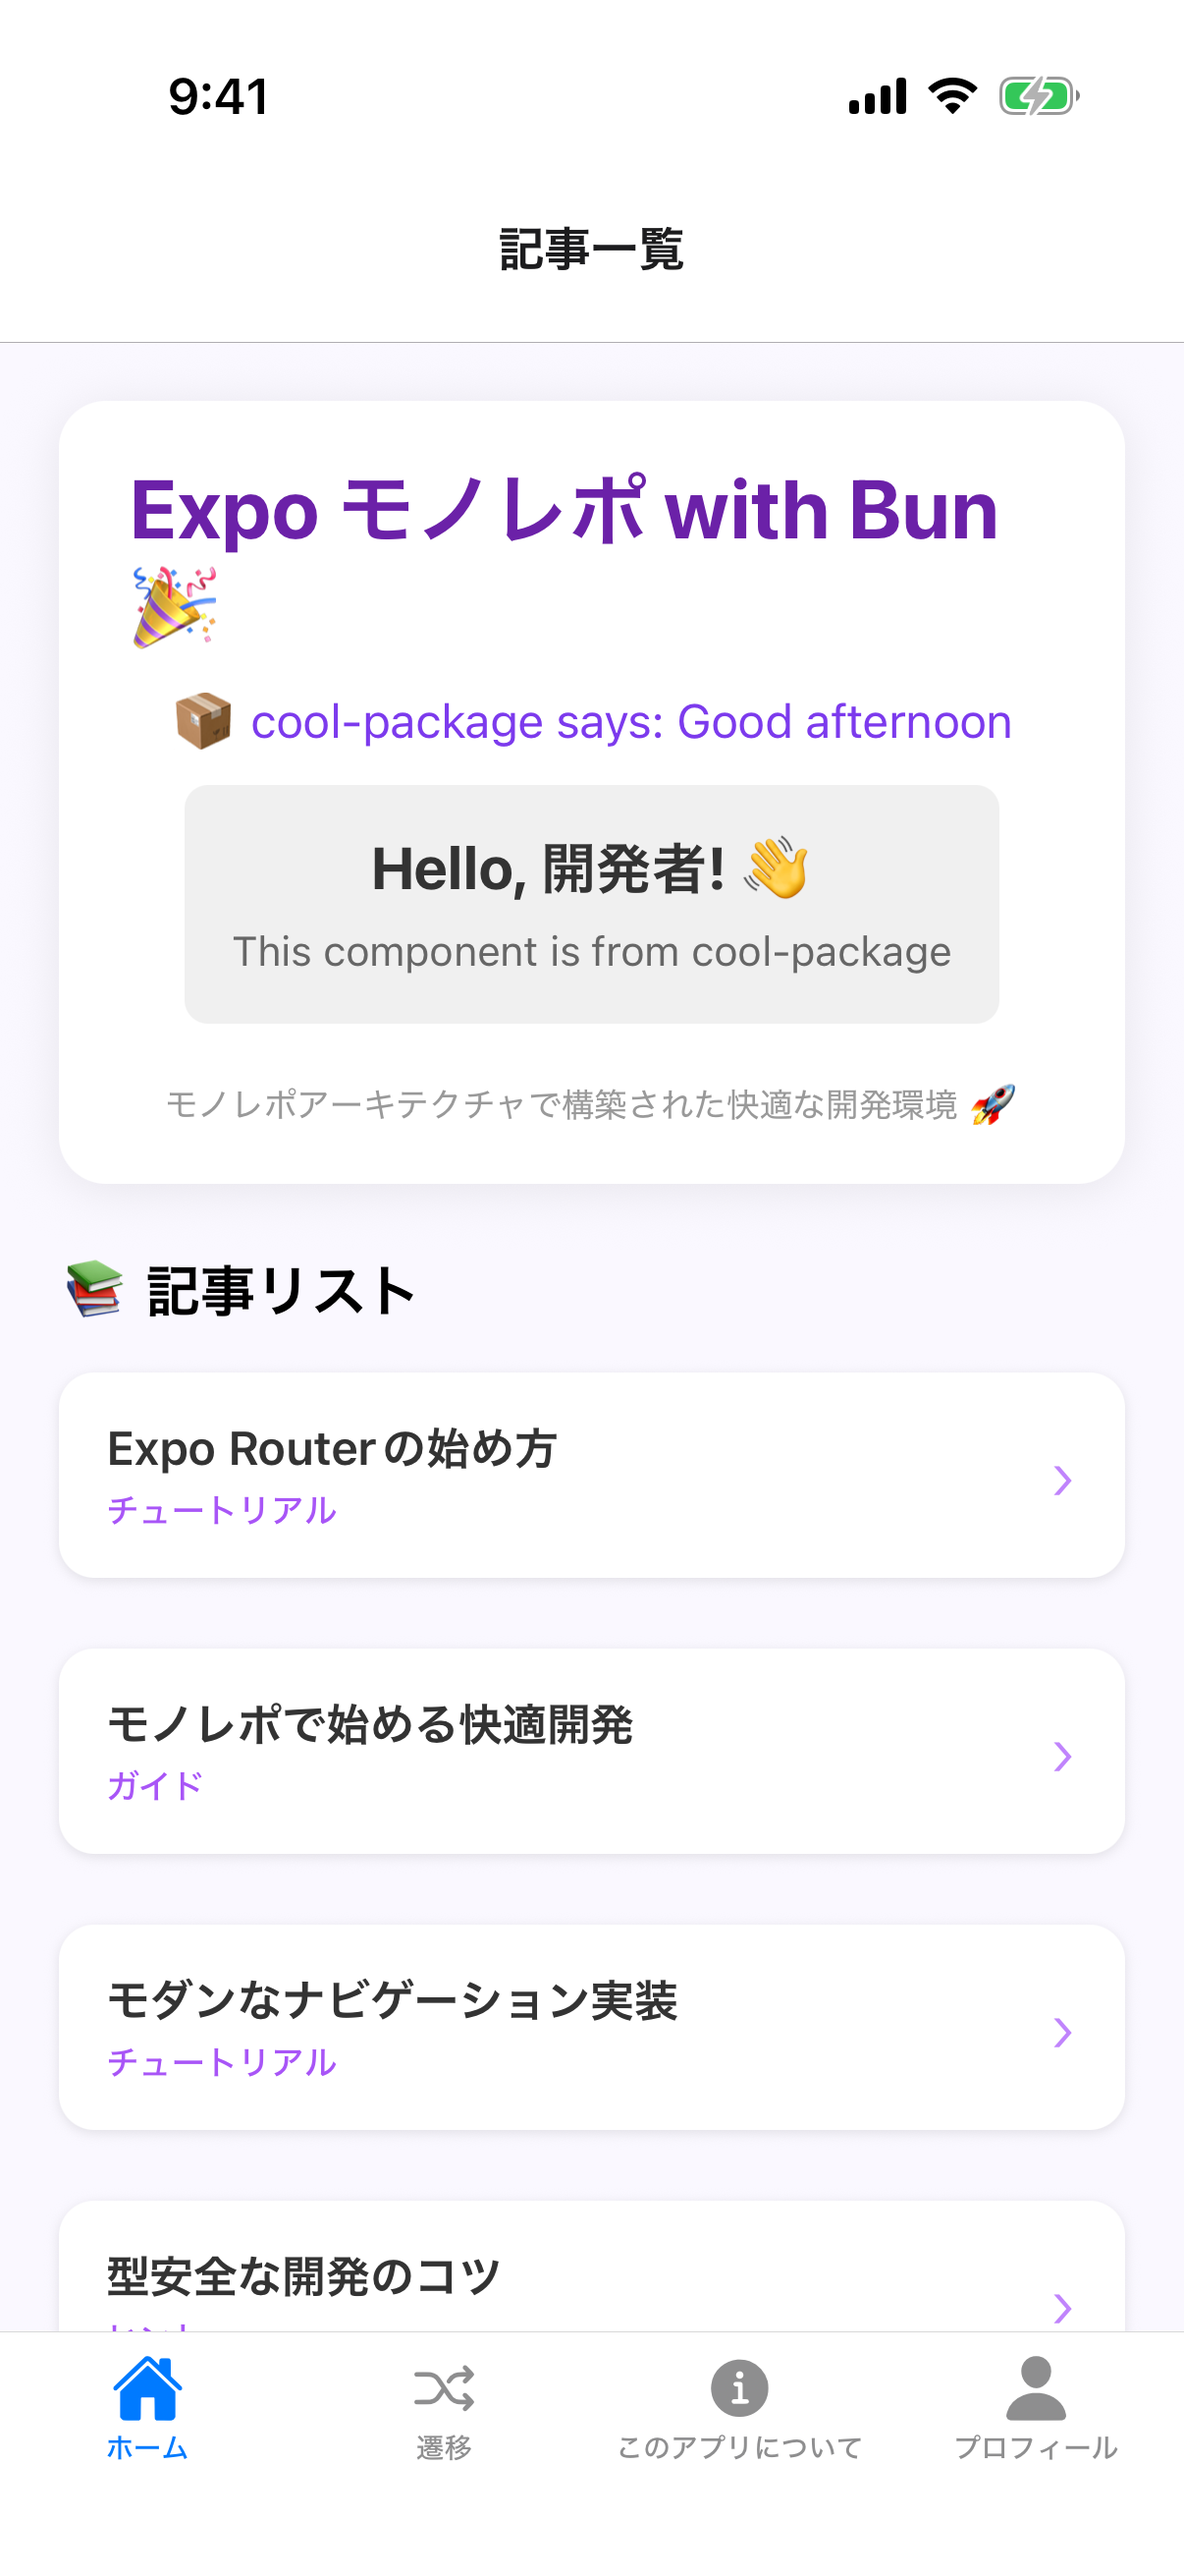
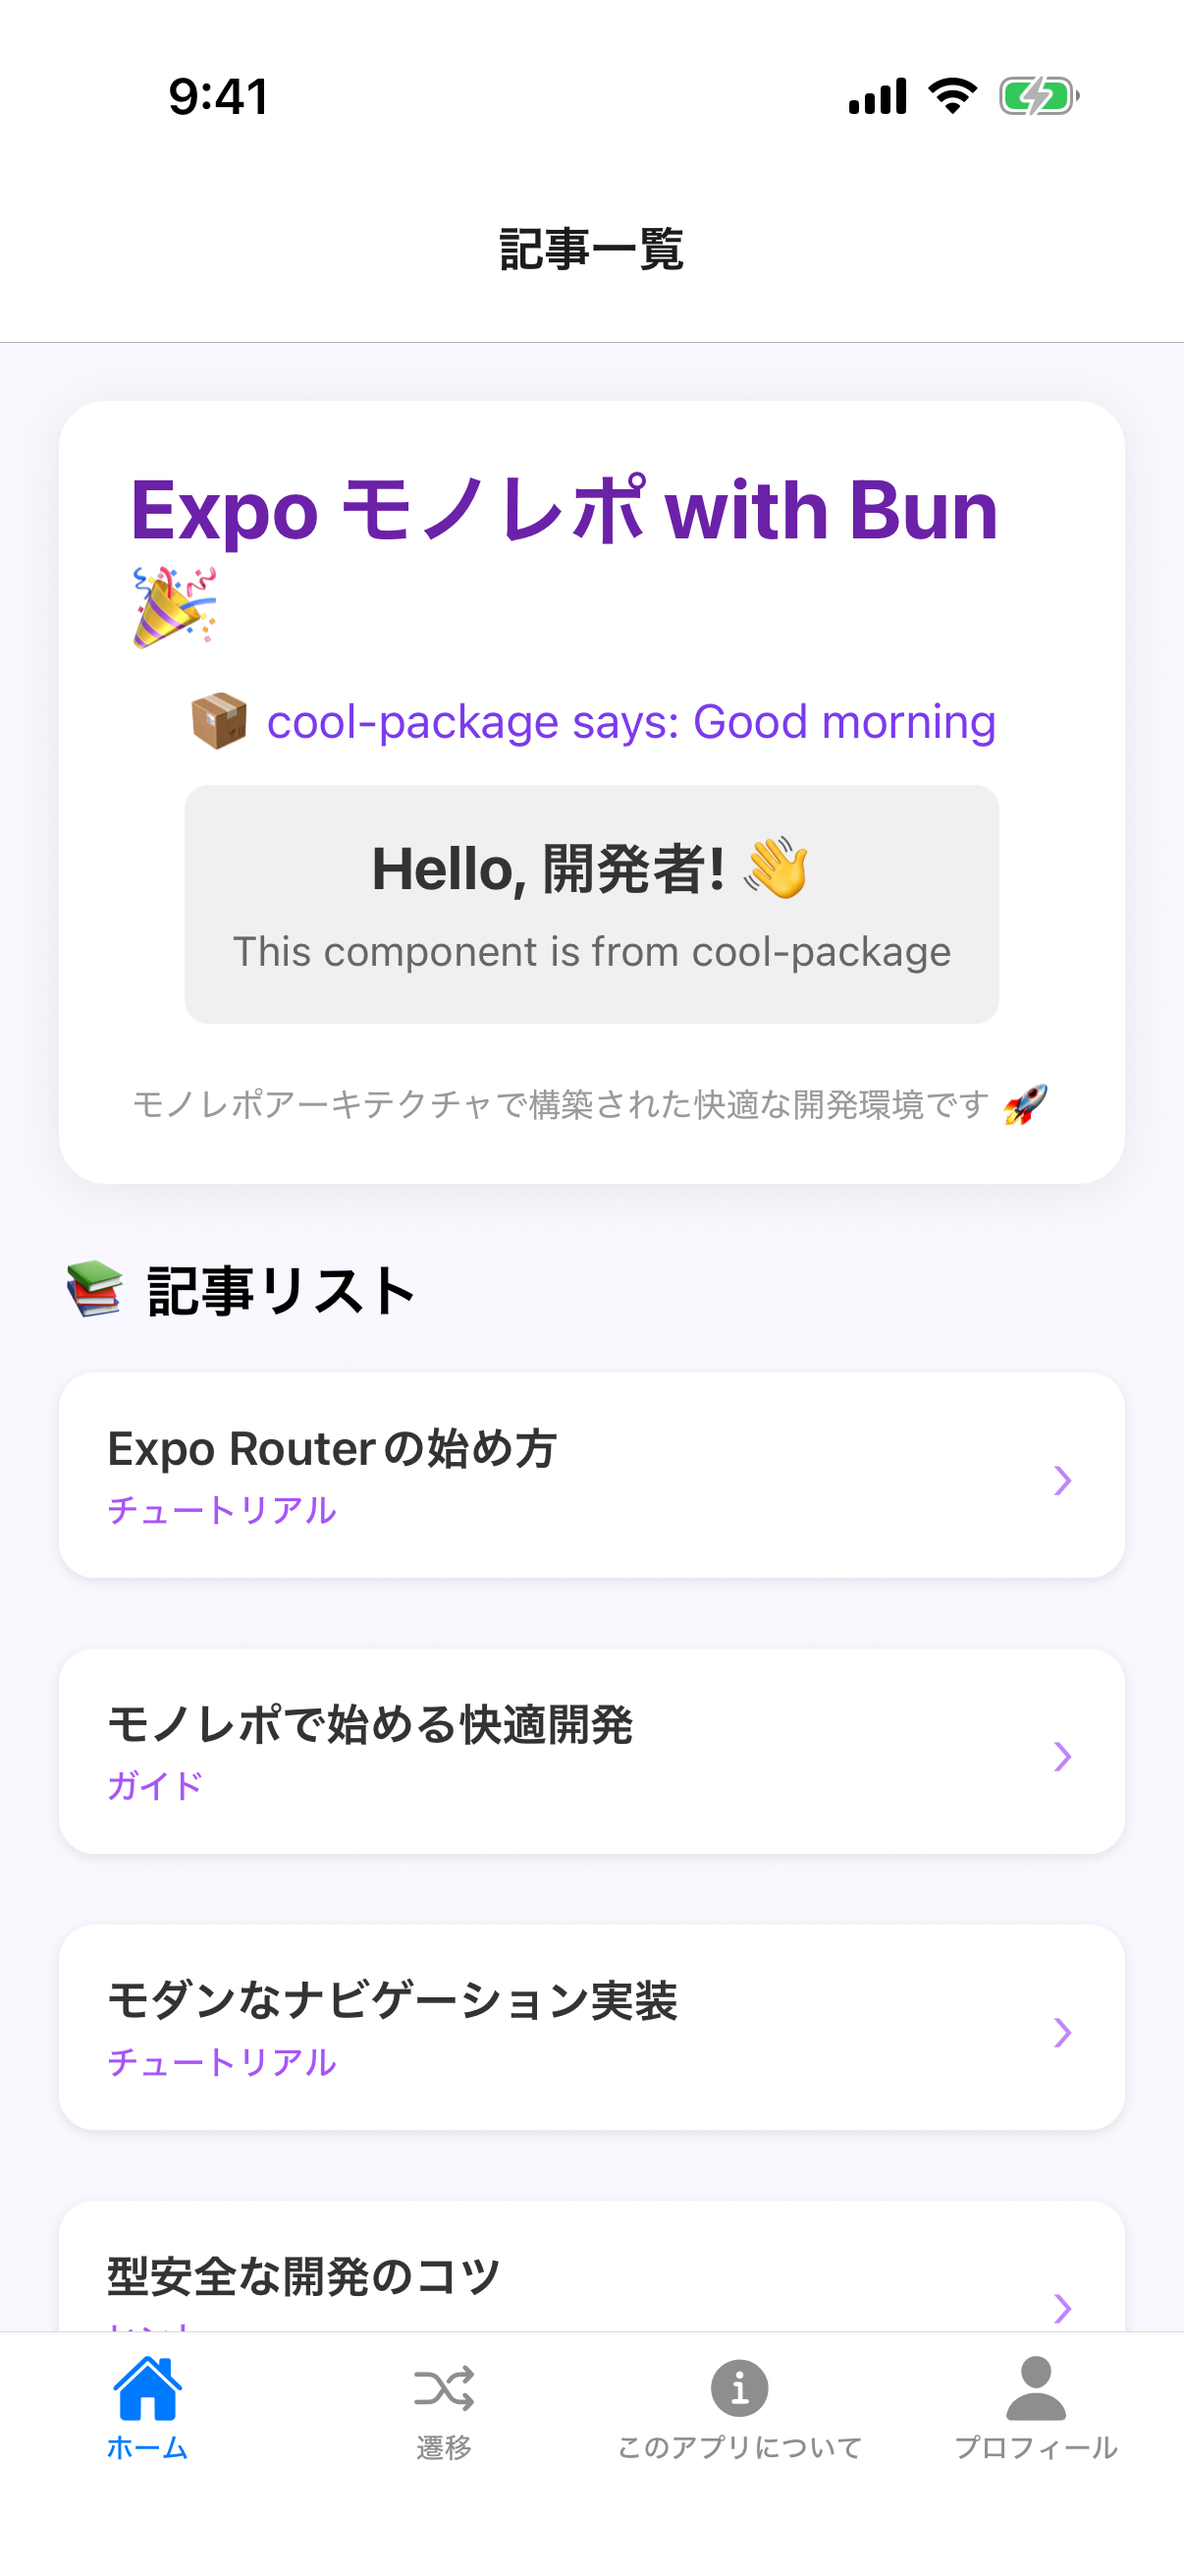
fix: テキストの文末に「です」を追加して文を整えました

diff --git a/apps/cool-app/app/(tabs)/home/index.tsx b/apps/cool-app/app/(tabs)/home/index.tsx
@@ -19,7 +19,7 @@ export default function HomeScreen() {
         <Text style={styles.subtitle}>{formatMessage(getGreetingTime())}</Text>
         <Greeting name="開発者" />
         <Text style={styles.info}>
-          モノレポアーキテクチャで構築された快適な開発環境 🚀
+          モノレポアーキテクチャで構築された快適な開発環境です 🚀
         </Text>
       </View>
 
